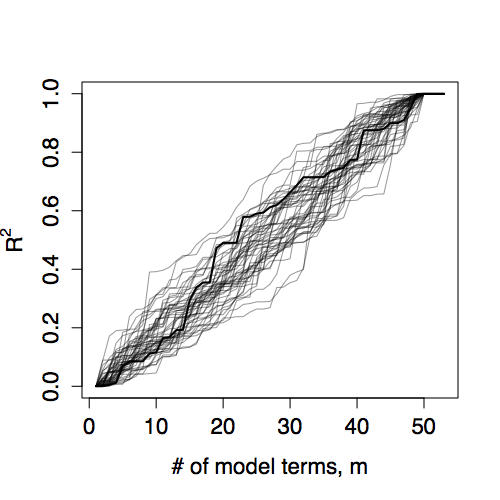
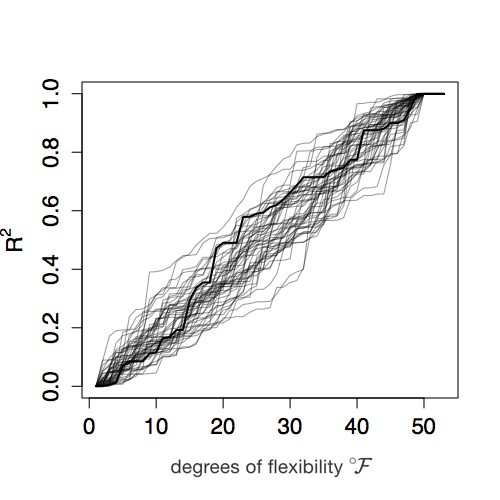
Added fuel economy parable.

Changed region(s): [[0.33, 0.9, 0.75, 0.96]]

diff --git a/docs/f-and-r.html b/docs/f-and-r.html
@@ -111,7 +111,7 @@
 <li class="chapter" data-level="8.2" data-path="f-and-r.html"><a href="f-and-r.html#whats-the-meaning-of-f"><i class="fa fa-check"></i><b>8.2</b> What’s the meaning of F?</a></li>
 <li class="chapter" data-level="8.3" data-path="f-and-r.html"><a href="f-and-r.html#r-squared"><i class="fa fa-check"></i><b>8.3</b> R-squared</a></li>
 <li class="chapter" data-level="8.4" data-path="f-and-r.html"><a href="f-and-r.html#f-in-statistics-books"><i class="fa fa-check"></i><b>8.4</b> F in statistics books</a></li>
-<li class="chapter" data-level="8.5" data-path="f-and-r.html"><a href="f-and-r.html#explaining-the-form-of-f"><i class="fa fa-check"></i><b>8.5</b> Explaining the form of F</a></li>
+<li class="chapter" data-level="8.5" data-path="f-and-r.html"><a href="f-and-r.html#another-explanation-of-f"><i class="fa fa-check"></i><b>8.5</b> Another explanation of F</a></li>
 </ul></li>
 <li class="chapter" data-level="9" data-path="confidence-intervals.html"><a href="confidence-intervals.html"><i class="fa fa-check"></i><b>9</b> Confidence intervals</a><ul>
 <li class="chapter" data-level="9.1" data-path="confidence-intervals.html"><a href="confidence-intervals.html#confidence-intervals-from-f"><i class="fa fa-check"></i><b>9.1</b> Confidence intervals from F</a></li>
@@ -200,40 +200,36 @@ F is often written in terms of the sum of squares of the response variable SS_r_
 Both the numerator and the denominator of this ratio have the form of a sum of squares divided by a count. In the terminology of classical inference, such things are called <em>mean squares</em>.</p>
 <p>In this book, we’ll just use the formula for F given at the start of this chapter. The others give exactly the same value, but let’s avoid having ton work with potentially confusing vocabulary such as the mean square and sum of squares.</p>
 </div>
-<div id="explaining-the-form-of-f" class="section level2">
-<h2><span class="header-section-number">8.5</span> Explaining the form of F</h2>
-<p>R<sup>2</sup> is an effective way of measuring how “close” the model values are to the response values. When R<sup>2</sup> <span class="math inline">\(= 1\)</span>, the model values are exactly equal to the values of the response variable.</p>
-<p>Now recall that increasing the degrees of flexibility <span class="math inline">\(\flex\)</span> of a model–say be incorporating additional explanatory variables–enables the model values to come closer to the values of the response variable. With the vocabulary of R<sup>2</sup>, we can express this as “increasing <span class="math inline">\(\flex\)</span> increases R<sup>2</sup>.”</p>
-<p>Common sense suggests that the explanatory variables used in a model should be somehow connected to the response variable; why else would you use them? But, in fact, the statement “increasing <span class="math inline">\(\flex\)</span> increases R<sup>2</sup>” is true even if the increased flexibility comes from including completely bogus explanatory variables in the model. As <span class="math inline">\(\flex \rightarrow n - 1\)</span>, regardless of the merit of the explanatory variables in the model, R<sup>2</sup> <span class="math inline">\(\rightarrow 1\)</span>.</p>
-<p>So how to distinguish between a genuinely meaningful explanatory variable and a bogus, meaningless one? When you add either one to a model, R<sup>2</sup> will increase. What we ask when deciding whether an explanatory variable is meaningful or meaningless is <em>how much</em> did R<sup>2</sup> go up when the variable was added to the model. The sign that an explanatory variable is meaningful is that R<sup>2</sup> goes up by a lot, more than for a typical meaningless variable.</p>
-<p>Let’s do a numerical experiment about R<sup>2</sup> and random, meaningless variables. Suppose we have a data frame with <span class="math inline">\(n=50\)</span>. Each of the variables will be constructed by a random-number generator, that is, they are completely unconnected one from the other. Call one of the variables <span class="math inline">\(y\)</span> and the others <span class="math inline">\(x_1, x_2, x_3, ...\)</span>, going up to, say, <span class="math inline">\(x_100\)</span>.</p>
-<p>Setting the response variable to be y, we are going to fit a series of models with these explanatory variables. The first model will have just one explanatory variable: <span class="math inline">\(x_1\)</span>. This model has <span class="math inline">\(\flex = 1\)</span>. Fitting the model, calculate R<sup>2</sup>. We’ll want to keep track of this, so let’s label this <span class="math inline">\(\mbox{R}^2_1\)</span>. The second model will have two explanatory variables: <span class="math inline">\(x_1\)</span> and <span class="math inline">\(x_2\)</span> and therefore has <span class="math inline">\(\flex = 2\)</span>. Again, calculate R<sup>2</sup>. We’ll call this one <span class="math inline">\(\mbox{R}^2_2\)</span>. From the nature of model fitting, we know that <span class="math inline">\(\mbox{R}^2_1 \leq \mbox{R}^2_2\)</span>. Now fit a model with <span class="math inline">\(\flex = 3\)</span> using as explanatory variables <span class="math inline">\(x_1\)</span>, <span class="math inline">\(x_2\)</span>, and <span class="math inline">\(x_3\)</span>. The R<sup>2</sup> for this model will be called <span class="math inline">\(\mbox{R}^2_3\)</span>. And so on, increasing <span class="math inline">\(\flex\)</span> one step at a time. In the end, we’ll have a sequence of R<sup>2</sup> for the collection of models which must show a non-decreasing pattern:</p>
-<p><span class="math display">\[\mbox{R}^2_1 \leq \mbox{R}^2_2 \leq \mbox{R}^2_3 \leq \cdots \leq \mbox{R}^2_{100}\]</span></p>
-<p>Figure 6.13 plots out this sequence of <span class="math inline">\(\mbox{R}^2_i\)</span> against <span class="math inline">\(\flex_i\)</span>. The sequence is shown as a dark black line. Note the steady (but somewhat random) increase until R<sup>2</sup> reaches 1 when <span class="math inline">\(\flex = n-1\)</span>. Figure 6.13 also shows several other similar trials, each of which follows it’s own random path up toward R<sup>2</sup> = 1 when <span class="math inline">\(\flex = n-1\)</span>. This is the signature of meaningless, bogus explanatory variables.</p>
-
+<div id="another-explanation-of-f" class="section level2">
+<h2><span class="header-section-number">8.5</span> Another explanation of F</h2>
+<p>First, I’ll give the explanation in the form of a parable. Imagine that your model is a automobile. You are going to drive it a distance of 100 miles. There are two gas companies, EXPLANATORY Fuel and RANDOM Fuel. You put in 2 liters of EXPLANATORY gas and drive as far as you can get, say 44 miles. Your fuel economy on the EXPLANATORY part of the trip is thus 22 miles per liter. You’re out of fuel, but conveniently there is a RANDOM gas station close at hand. You fill up your tank with RANDOM gas and continue driving. You drive the rest of the way using the random gas. Looking at the fuel gauge, you see that you have used up 8 liters of RANDOM gas, the fuel economy is 56 miles (that is, 100-44) per 8 liters of RANDOM gas, so the fuel economy is only 7 miles per gallon of RANDOM gas.</p>
+<p>Now a skeptic asks you, “The EXPLANATORY gas company has a good name for marketing, but do you have any good reason to think that EXPLANATORY gas is better than RANDOM gas?” Of course, the answer is yes, but how to summarize your findings? One way is to compare the fuel economies of the different kinds of gas: 22 miles per gallon for EXPLANATORY and 7 for RANDOM. More concisely, you could say that EXPLANATORY gas is more than 3 times (22/7) as efficient as RANDOM gas.</p>
+<p>The miles travelled using EXPLANATORY gas corresponds to R<sup>2</sup>. The fuel itself is whatever explanatory variables (and nonlinearities and whatever) are in your model. The amount of EXPLANATORY gas is <span class="math inline">\(\flex\)</span>.</p>
+<p>RANDOM gas is not manufactured from genuine explanatory variables. Instead it is synthesized purely from random numbers. You don’t expect RANDOM gas to be very good. But it serves as a point of comparison for the effectiveness of EXPLANATORY gas.</p>
+<p>To conduct the comparison, you’ll look at the ratio of the fuel economies: EXPLANATORY fuel economy divided by RANDOM fuel economy. That ratio of fuel economies corresponds exactly to F.</p>
+<p>Perhaps you’re thinking, “RANDOM gas won’t get you anywhere.” That’s not true. You can confirm this by creating a dataset that consists only of random numbers then modeling one of the variables by the others. You’ll find that R<sup>2</sup> is not zero. Indeed, if you use <span class="math inline">\(n-1\)</span> random explanatory variables in your model, you’re guaranteed to reach <span class="math inline">\(\mbox{R}^2 = 1\)</span>.</p>
+<p>Figure 6.13 shows simulations of R<sup>2</sup> versus <span class="math inline">\(\flex\)</span> for RANDOM gas. (Not every gallon of RANDOM gas is the same, it’s random!)</p>
+<p>(ref:R-path-cap) Figure 6.13: The dark path shows one trial in which the car is fueled entirely with
+RANDOM gas. The graph shows how far the car gets (in terms of R<sup>2</sup>) as it uses more and more fuel (in terms of <span class="math inline">\(\flex\)</span>).</p>
 <div class="figure"><span id="fig:R-path"></span>
-<img src="images/14-R2-vs-m.png" alt="Figure 6.13: The dark path shows one trial in which \(\flex\) is steadily increased by using additional random explanatory variables. The other paths are for similar trials using new random data." width="250" />
+<img src="images/14-R2-vs-m.png" alt="(ref:R-path-cap)" width="250" />
 <p class="caption">
-Figure 8.1: Figure 6.13: The dark path shows one trial in which <span class="math inline">\(\flex\)</span> is steadily increased by using additional random explanatory variables. The other paths are for similar trials using new random data.
+Figure 8.1: (ref:R-path-cap)
 </p>
 </div>
-<p>IN DRAFT: Relabel x-axis as <span class="math inline">\(\flex\)</span>.</p>
-<p>In actual practice, we’re not interested in using random explanatory variables. In fact, we’d prefer to avoid such bogus variables in favor of ones that are genuinely connected to the response variable. The picture we expect to see is shown in Figure 6.14.</p>
+<p>Figure 6.14 shows schematically the general form of distance R<sup>2</sup> versus fuel consumption when the first 10 units of fuel (that is to say, <span class="math inline">\(\flex = 10\)</span>) are EXPLANATORY gas. As you can see, the EXPLANATORY gas got you to R<sup>2</sup> = 65%. So the fuel economy for EXPLANATORY gas is about 6.5% per unit of fuel.</p>
 
 <div class="figure"><span id="fig:R-path2"></span>
-<img src="images/14-model-walk-example.png" alt="Figure 6.14: \(\mbox{R}^2_i\) versus \(\flex\). The blue dot shows $^2_{i=10} for a model with \(\flex = 10\) where the explanatory variables have genuine explanatory power. Note that the path upward to the blue dot is much steeper than for the trials with random explanatory variables. Correspondingly, the path upward from the blue dot is less steep than for the trials with random explanatory variables." width="250" />
+<img src="images/14-model-walk-example.png" alt="Figure 6.14: \(\mbox{R}^2\) versus \(\flex\). For the first 10 units of fuel, EXPLANATORY gas was used. Then the car switched over to RANDOM fuel for the rest of the journey to \(\mbox{R}^2 = 1\). Note that the path upward to the blue dot (using EXPLANATORY gas) is much steeper than for the rest of the journey using RANDOM gas. The slope of each segment is the fuel economy." width="250" />
 <p class="caption">
-Figure 8.2: Figure 6.14: <span class="math inline">\(\mbox{R}^2_i\)</span> versus <span class="math inline">\(\flex\)</span>. The blue dot shows $^2_{i=10} for a model with <span class="math inline">\(\flex = 10\)</span> where the explanatory variables have genuine explanatory power. Note that the path upward to the blue dot is much steeper than for the trials with random explanatory variables. Correspondingly, the path upward <em>from</em> the blue dot is less steep than for the trials with random explanatory variables.
+Figure 8.2: Figure 6.14: <span class="math inline">\(\mbox{R}^2\)</span> versus <span class="math inline">\(\flex\)</span>. For the first 10 units of fuel, EXPLANATORY gas was used. Then the car switched over to RANDOM fuel for the rest of the journey to <span class="math inline">\(\mbox{R}^2 = 1\)</span>. Note that the path upward to the blue dot (using EXPLANATORY gas) is much steeper than for the rest of the journey using RANDOM gas. The slope of each segment is the fuel economy.
 </p>
 </div>
-<p>The F statistic quantifies how much steeper is the path to the blue dot than the paths of the trials with random variables. Specifically, F is defined as a ratio of slopes: the slope upward to the blue dot divided by the slope upward <em>from</em> the blue dot.</p>
-<p>We can calculate these two slopes since we know <span class="math inline">\(\flex\)</span>, R<sup>2</sup>, and <span class="math inline">\(n\)</span>.</p>
-<ul>
-<li>The slope <em>to</em> the blue dot is R<sup>2</sup><span class="math inline">\(/\flex\)</span>.</li>
-<li>The slope <em>from</em> the blue dot is (1-R<sup>2</sup>)<span class="math inline">\(/(n - (\flex + 1))\)</span>.</li>
-</ul>
-<p>Taking the ratio, we have</p>
-<p><span class="math display">\[F \equiv \frac{n - (\flex + 1)}{\flex} \frac{R^2}{1-R^2}\]</span>.</p>
+<p>With enough RANDOM gas, you’ll get the rest of the way to R<sup>2</sup> = 100%. How much is enough? <span class="math inline">\(n - (\flex + 1)\)</span> units of fuel. Since <span class="math inline">\(n=50\)</span> and <span class="math inline">\(\flex = 10\)</span>, the RANDOM gas fuel economy is 35% (that is, 100% - 65%) divided by 39, or just under 1% per unit of fuel. The F statistic is therefore 6.5% / 1% = 6.5.</p>
+<p>Is 6.5 a big enough F to convince us that the EXPLANATORY gas is clearly not just RANDOM gas in disguise? We can find that out by doing a simulation where we use only RANDOM gas in the car, comparing how far we get with the first <span class="math inline">\(\flex = 10\)</span> liters to how much addition RANDOM fuel to get to our eventual destination of R<sup>2</sup> = 100%. That’s what Figure 6.13 is about. You can mark on any of those random paths the value of R<sup>2</sup> reached with the first <span class="math inline">\(\flex = 10\)</span> liters of fuel. Then draw in the equivalent of the blue slope and the red slope. For the large majority of trials, the ratio of slopes will be less than 4. So <span class="math inline">\(F = 6.5\)</span> is not a plausible outcome when using only RANDOM fuel in the car.</p>
+<p>Note the expression for F in terms of R<sup>2</sup>:</p>
+<p><span class="math display">\[F \equiv \frac{\mbox{R}^2}{\flex} \div \frac{1 - \mbox{R}^2}{n - (\flex + 1)}\]</span></p>
+<p>The first ratio in the above is the slope of the blue line segment in Figure 6.14. The second ratio in the above is the slope of the red line segment in Figure 6.14.</p>
 
 </div>
 </div>

diff --git a/docs/060-FandR.md b/docs/060-FandR.md
@@ -66,49 +66,46 @@ Both the numerator and the denominator of this ratio have the form of a sum  of 
 
 In this book, we'll just use the formula for F given at the start of this chapter. The others give exactly the same value, but let's avoid  having  ton work with potentially confusing  vocabulary such  as the  mean square and sum  of squares.
 
-## Explaining the form of F
+## Another explanation of F
 
-R^2^ is an effective way of measuring how "close" the model values are  to the  response values. When R^2^ $= 1$, the model values are exactly equal to the values of the response variable.
+First, I'll give the explanation in the form of a parable. Imagine that your model is a automobile. You are going to drive it a distance of 100 miles. There are two gas companies, EXPLANATORY Fuel and RANDOM Fuel. You put in 2 liters of EXPLANATORY gas and drive as far as you can get, say 44 miles. Your fuel economy on the EXPLANATORY part of the trip  is  thus 22 miles per liter. You're out of fuel, but conveniently there is a RANDOM gas station close at hand. You fill up your  tank with  RANDOM gas and continue driving. You drive the rest of the way  using the random gas. Looking at the fuel  gauge, you  see that you have used up 8 liters of RANDOM gas,  the fuel economy is  56 miles (that is, 100-44) per  8 liters of RANDOM gas, so the fuel economy is only 7 miles per gallon of RANDOM gas.
 
-Now recall that  increasing the degrees of flexibility $\flex$ of a model--say be incorporating additional explanatory variables--enables the model values to come closer to the values of the response variable. With  the vocabulary of R^2^, we can express this as "increasing $\flex$ increases R^2^." 
+Now a skeptic asks you, "The EXPLANATORY gas company has a good name for marketing, but do you have any good reason to think that EXPLANATORY gas is better than RANDOM gas?" Of course, the answer is yes, but  how to summarize your findings? One way is to compare the  fuel economies of the different kinds of gas: 22 miles per gallon for EXPLANATORY and 7 for  RANDOM. More concisely, you could say that EXPLANATORY gas is more than 3 times (22/7) as efficient as RANDOM gas. 
 
-Common sense suggests that the explanatory variables used in a model should be somehow  connected  to the response variable; why else would you  use them? But, in fact, the statement "increasing $\flex$ increases R^2^" is true even if the increased flexibility comes from including completely bogus explanatory variables in the model. As $\flex \rightarrow n - 1$, regardless of the merit of the explanatory variables in the model, R^2^ $\rightarrow 1$.
+The miles travelled using EXPLANATORY gas corresponds to R^2^. The fuel itself is whatever explanatory variables (and nonlinearities and whatever) are in your model. The amount of EXPLANATORY gas is $\flex$. 
 
-So how to distinguish between a genuinely meaningful explanatory variable and a bogus, meaningless one? When you add either one to a model, R^2^ will increase. What we ask when deciding whether an explanatory variable is meaningful or meaningless is *how much* did R^2^ go up when the variable was added to the model. The sign that an explanatory variable is  meaningful is that R^2^ goes up by a lot, more than for a typical meaningless variable. 
+RANDOM gas is not manufactured from genuine explanatory variables. Instead it is synthesized purely from random numbers. You don't expect RANDOM gas to be very good. But it serves as a point of comparison for the effectiveness of EXPLANATORY gas.
 
-Let's do a numerical experiment about R^2^ and random, meaningless variables. Suppose we have a data frame with $n=50$. Each of the variables will be constructed by a random-number generator, that is, they are completely unconnected one from the other. Call one of the variables $y$  and the others  $x_1, x_2, x_3,  ...$, going up to, say,  $x_100$.
+To conduct the comparison, you'll look at the ratio of the fuel economies: EXPLANATORY  fuel economy divided  by RANDOM fuel economy. That ratio of fuel economies corresponds exactly to F.
 
-Setting  the response variable to be y,  we are going to fit a series of models with  these explanatory variables. The first model will have just  one explanatory variable: $x_1$. This model has $\flex = 1$. Fitting  the model, calculate R^2^. We'll want to  keep track of this, so let's label this $\mbox{R}^2_1$. The second model will  have two explanatory variables: $x_1$ and $x_2$ and therefore has $\flex = 2$. Again, calculate R^2^. We'll call this one $\mbox{R}^2_2$. From the nature of model fitting, we know that $\mbox{R}^2_1 \leq \mbox{R}^2_2$. Now fit a model with $\flex  = 3$  using as explanatory variables $x_1$, $x_2$, and $x_3$. The R^2^ for this model will  be called $\mbox{R}^2_3$. And so on, increasing $\flex$ one step at a time. In the end, we'll  have a sequence of R^2^ for the collection of models which must show a non-decreasing pattern:
+Perhaps you're thinking, "RANDOM gas won't get you anywhere." That's not true. You can confirm this by creating a dataset that consists only of random numbers then modeling one of the variables by the others. You'll find that R^2^ is not zero. Indeed, if you use $n-1$ random explanatory variables in your model, you're guaranteed to reach $\mbox{R}^2 = 1$.
 
-$$\mbox{R}^2_1 \leq \mbox{R}^2_2 \leq \mbox{R}^2_3 \leq \cdots \leq \mbox{R}^2_{100}$$
+Figure 6.13 shows simulations of R^2^ versus $\flex$ for RANDOM gas. (Not every gallon of RANDOM gas is the same, it's random!)
 
-Figure 6.13 plots out this sequence of $\mbox{R}^2_i$ against $\flex_i$. The sequence is shown as a dark black line. Note the steady (but somewhat random) increase until R^2^ reaches 1 when $\flex = n-1$. Figure 6.13 also shows several other similar trials, each  of which follows it's own random path up toward R^2^ = 1 when $\flex  = n-1$. This is the signature of meaningless,  bogus explanatory variables.
-
-(ref:R-path-cap) Figure 6.13: The dark path shows one trial in which  $\flex$ is steadily increased by using additional random explanatory variables. The other paths are for similar trials using new random data.
+(ref:R-path-cap) Figure 6.13: The dark path shows one trial in which the car is fueled entirely with 
+RANDOM gas. The graph shows how far the car gets (in terms of R^2^) as it uses more and more fuel (in terms of $\flex$).
 
 <div class="figure">
 <img src="images/14-R2-vs-m.png" alt="(ref:R-path-cap)" width="250" />
 <p class="caption">(\#fig:R-path)(ref:R-path-cap)</p>
 </div>
 
-IN DRAFT: Relabel x-axis as $\flex$.
+Figure 6.14 shows schematically the general form of distance R^2^ versus fuel consumption when the first 10 units of fuel (that is to say, $\flex = 10$) are EXPLANATORY gas. As you can see, the EXPLANATORY gas got you  to R^2^ = 65%. So the fuel economy for EXPLANATORY gas is about 6.5% per unit of fuel.
 
-In actual practice,  we're not interested in using  random explanatory variables.  In fact, we'd prefer to avoid such  bogus variables in  favor of ones that are genuinely connected to the response variable. The  picture we expect to see is shown in Figure 6.14.
-
-(ref:R-path2-cap) Figure 6.14: $\mbox{R}^2_i$ versus $\flex$. The blue dot shows $\mbox{R}^2_{i=10} for a model with $\flex  = 10$ where the explanatory variables have genuine explanatory power. Note that the path upward to the blue dot is much steeper than for the trials with random explanatory variables. Correspondingly, the path upward *from* the blue dot  is less steep than for the trials with random explanatory variables.
+(ref:R-path2-cap) Figure 6.14: $\mbox{R}^2$ versus $\flex$. For the first 10 units of fuel, EXPLANATORY gas was used. Then the car switched over to RANDOM fuel for the rest of the journey to $\mbox{R}^2 = 1$. Note that the path upward to the blue dot  (using EXPLANATORY gas) is much steeper than for the rest of the journey using RANDOM gas.  The slope of each segment is the fuel economy.
 
 <div class="figure">
 <img src="images/14-model-walk-example.png" alt="(ref:R-path2-cap)" width="250" />
 <p class="caption">(\#fig:R-path2)(ref:R-path2-cap)</p>
 </div>
 
-The F statistic quantifies how much steeper is the path to  the blue dot than the paths of the trials with random variables. Specifically,  F is defined as a ratio of slopes: the slope upward to the blue dot divided by the slope upward *from* the blue dot.
+With enough RANDOM gas, you'll get the rest of the way to R^2^ = 100%. How much is enough? $n - (\flex + 1)$ units of fuel. Since $n=50$ and $\flex = 10$, the RANDOM gas fuel economy is 35% (that is, 100% - 65%) divided by 39, or just under 1% per unit of fuel. The F statistic is therefore 6.5% / 1% = 6.5.
 
-We can calculate these two slopes since we know $\flex$, R^2^, and $n$.
+Is 6.5 a big enough F to convince us that the EXPLANATORY gas is clearly not just RANDOM gas in disguise? We can find that out by doing a simulation where we use only RANDOM gas in the car, comparing how far we get with the first $\flex = 10$ liters to how much addition RANDOM fuel to get to our eventual destination of R^2^ = 100%. That's what Figure 6.13 is about. You can mark on any of those random paths the value of R^2^ reached with the first $\flex = 10$ liters of fuel. Then draw in the equivalent of the blue slope and the red slope. For the large majority of trials, the ratio of slopes will be less than 4. So $F = 6.5$ is not a plausible outcome when  using only RANDOM fuel in  the car. 
 
-* The slope *to* the blue dot is R^2^$/\flex$.
-* The slope  *from* the blue dot is (1-R^2^)$/(n - (\flex + 1))$.
+Note the expression for F in terms of R^2^:
 
-Taking the ratio, we have
+$$F \equiv \frac{\mbox{R}^2}{\flex} \div \frac{1 - \mbox{R}^2}{n - (\flex + 1)}$$
 
-$$F \equiv \frac{n - (\flex + 1)}{\flex} \frac{R^2}{1-R^2}$$.
+The first ratio in the above is the slope of the blue line segment in Figure 6.14. The second ratio in  the above is the slope of the red line segment in Figure  6.14.
+
